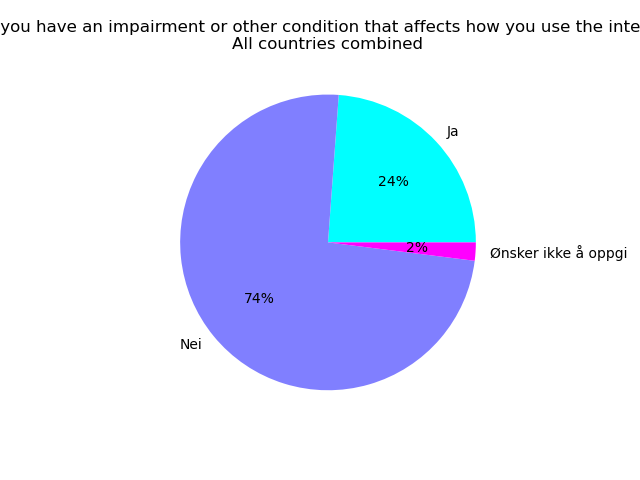
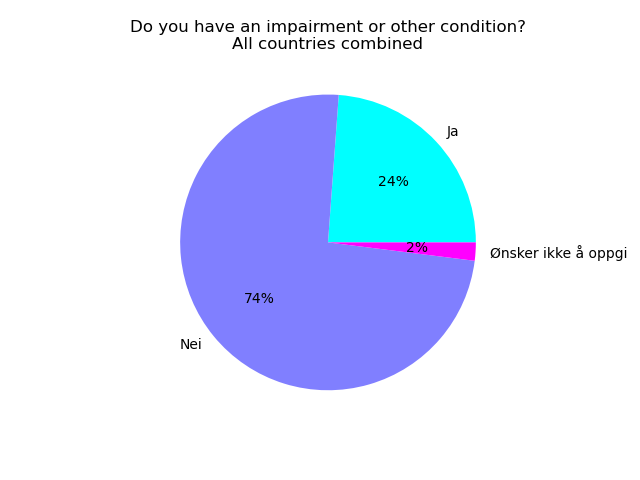
Updated titles.

Changed region(s): [[0.0, 0.0312, 1.0, 0.0938]]

diff --git a/survey/config.py b/survey/config.py
@@ -437,7 +437,7 @@ tasks_en = {
    3: {
          "var": ["funksjonsnedsettelse"],
          "sets":  ["all"], 
-         "title": "Do you have an impairment or other condition that affects how you use the internet?",
+         "title": "Do you have an impairment or other condition?",
          "kind":  "pie",
          "cmap":  pie_color
       },
@@ -446,7 +446,7 @@ tasks_en = {
          "var": ["funksjonsnedsettelse-type-kode"],
          "data-sep": ",",
          "sets": ["all"],
-         "title": "Describe your impairment. It is related to …",
+         "title": "Describe your impairment or condition. It is related to …",
          "kind": "pie",
          "cmap": "Spectral",
          "text_bckgrd": True

diff --git a/RESULTS-ALL_EN.md b/RESULTS-ALL_EN.md
@@ -25,9 +25,9 @@ Male           59
 Non-Binary      4
 ```
 
-## 3. Do you have an impairment or other condition that affects how you use the internet? (All countries combined)
+## 3. Do you have an impairment or other condition? (All countries combined)
 
-![Do you have an impairment or other condition that affects how you use the internet? All countries combined](results/en/03-funksjonsnedsettelse-all-countries.png)
+![Do you have an impairment or other condition? All countries combined](results/en/03-funksjonsnedsettelse-all-countries.png)
 
 ```
                       funksjonsnedsettelse
@@ -37,9 +37,9 @@ Nei                                    112
 Ønsker ikke å oppgi                      3
 ```
 
-## 9. Describe your impairment. It is related to … (All countries combined)
+## 9. Describe your impairment or condition. It is related to … (All countries combined)
 
-![Describe your impairment. It is related to … All countries combined](results/en/09-funksjonsnedsettelse-type-kode-all-countries.png)
+![Describe your impairment or condition. It is related to … All countries combined](results/en/09-funksjonsnedsettelse-type-kode-all-countries.png)
 
 ```
                                 funksjonsnedsettelse-type-kode
